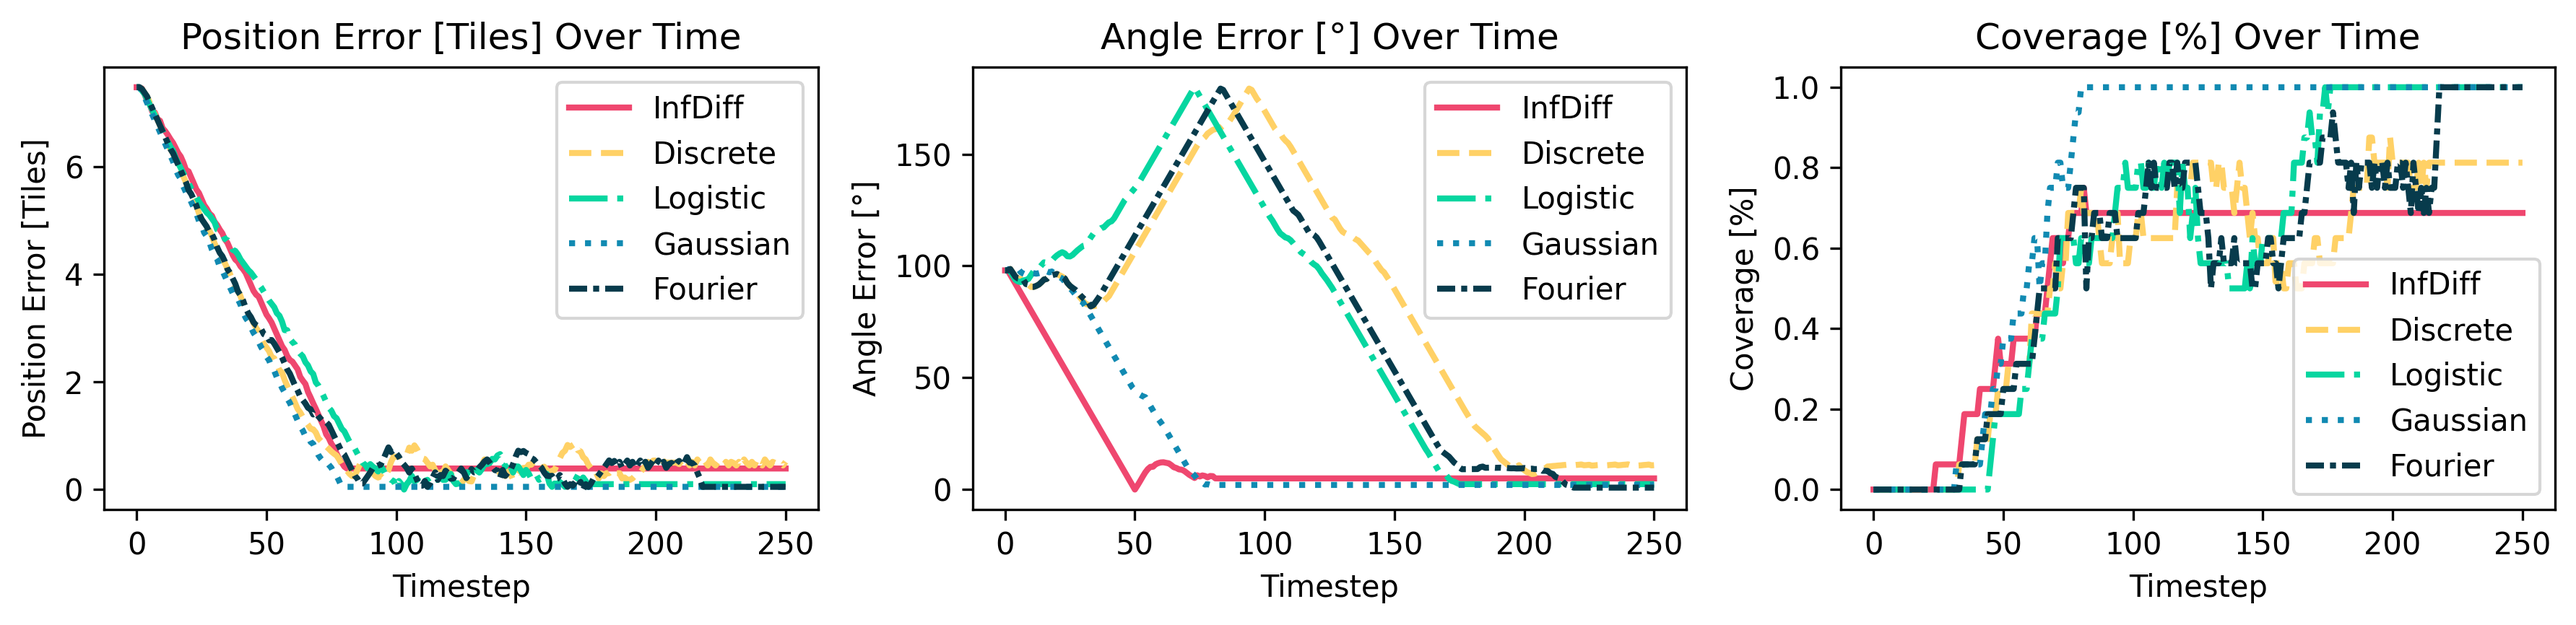
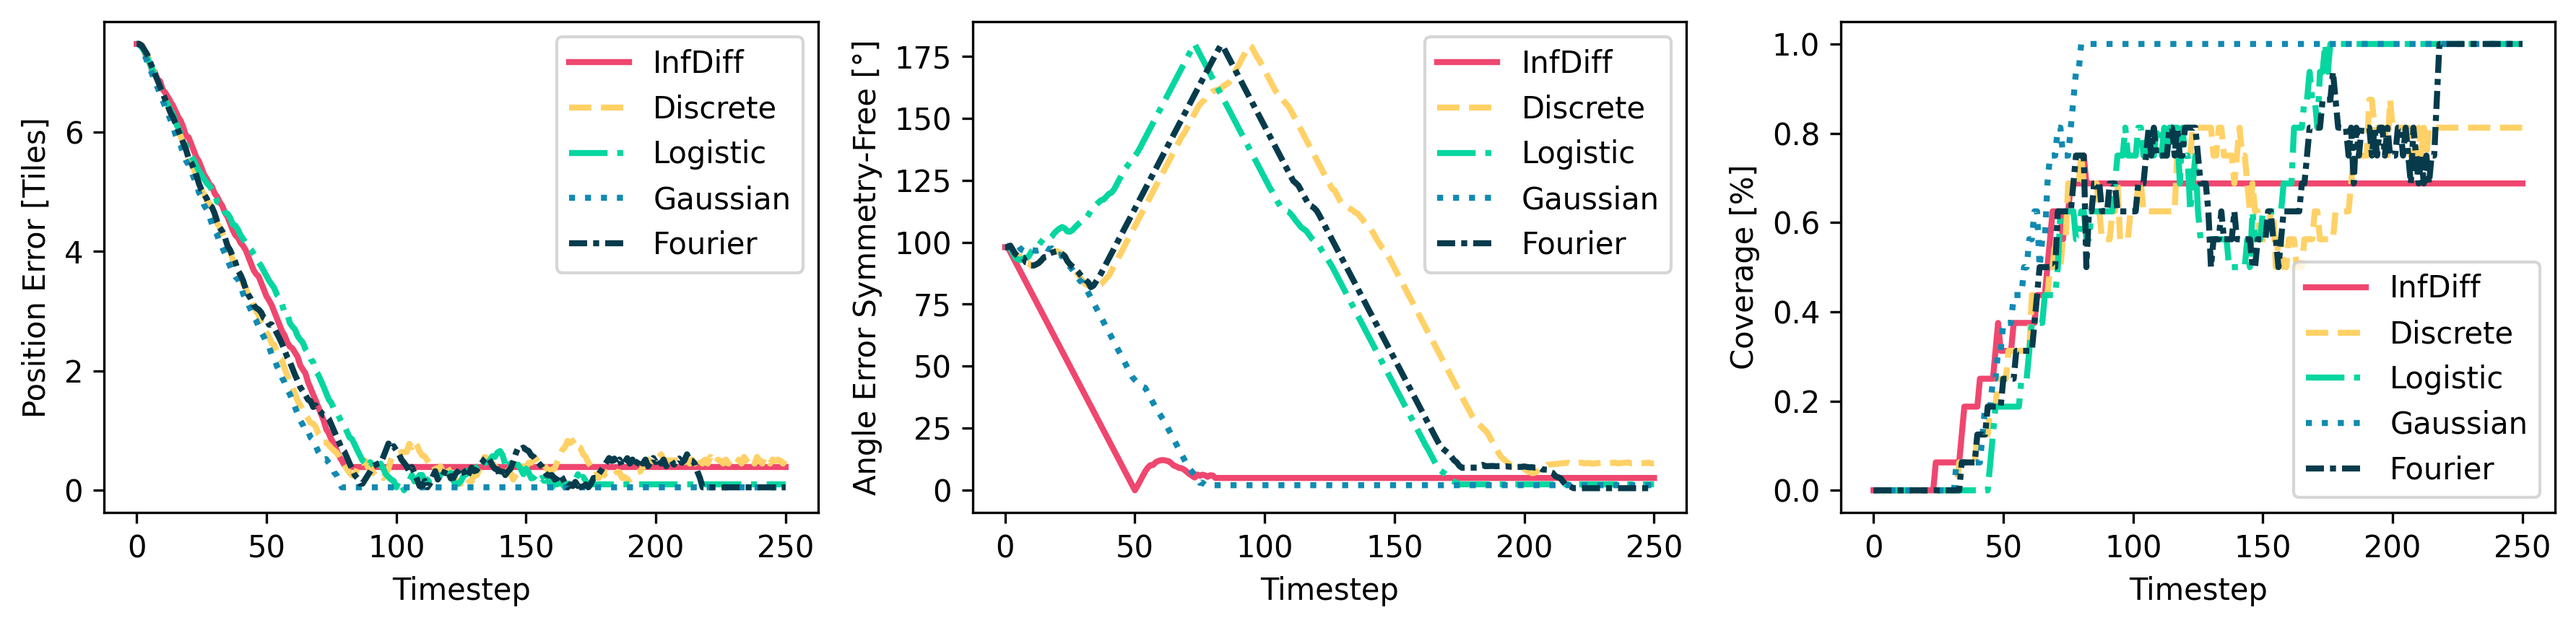
minor

diff --git a/Exp_Convergence.py b/Exp_Convergence.py
@@ -194,7 +194,7 @@ def plot_convergence_metrics():
     behaviors = list(full_results.keys())
     # Removed 'error_angles' and kept only the symmetry-aware one
     metrics = ['error_positions', 'error_angles_symmetry', 'coverages']
-    metric_labels = ['Position Error [Tiles]', 'Angle Error [°]', 'Coverage [%]']
+    metric_labels = ['Position Error [Tiles]', 'Angle Error Symmetry-Free [°]', 'Coverage [%]']
     
     # Create subplots (3 metrics instead of 4)
     X = 3
@@ -226,7 +226,7 @@ def plot_convergence_metrics():
         
         ax.set_xlabel('Timestep')
         ax.set_ylabel(label)
-        ax.set_title(f'{label} Over Time')
+        #ax.set_title(f'{label}')
         ax.legend()
     
     plt.tight_layout()
